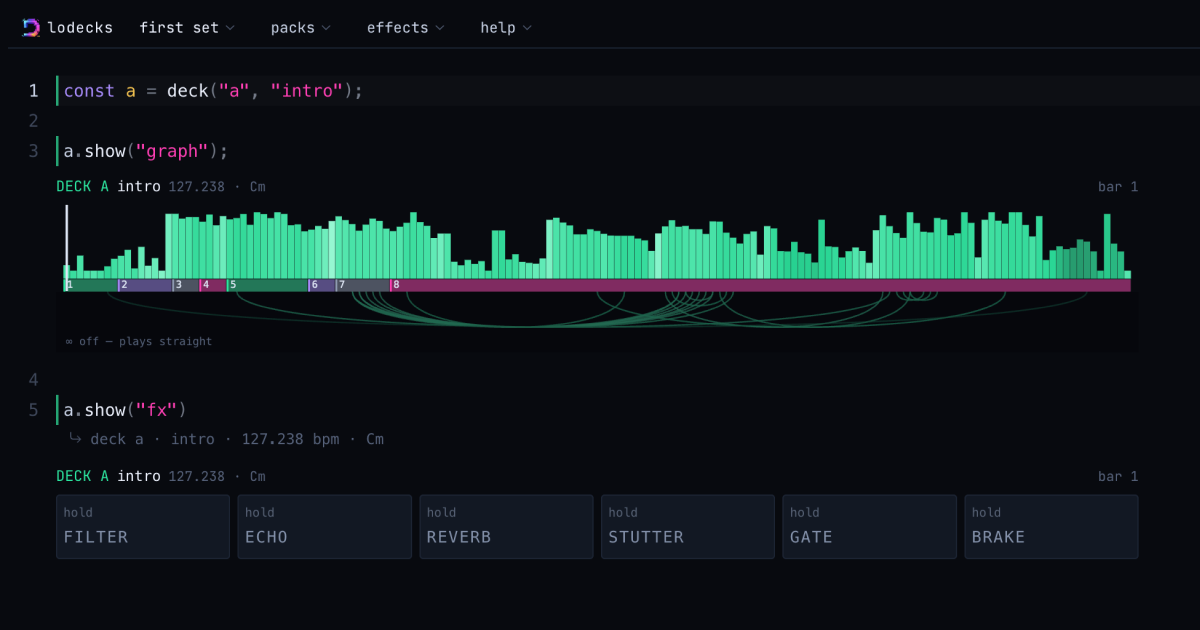
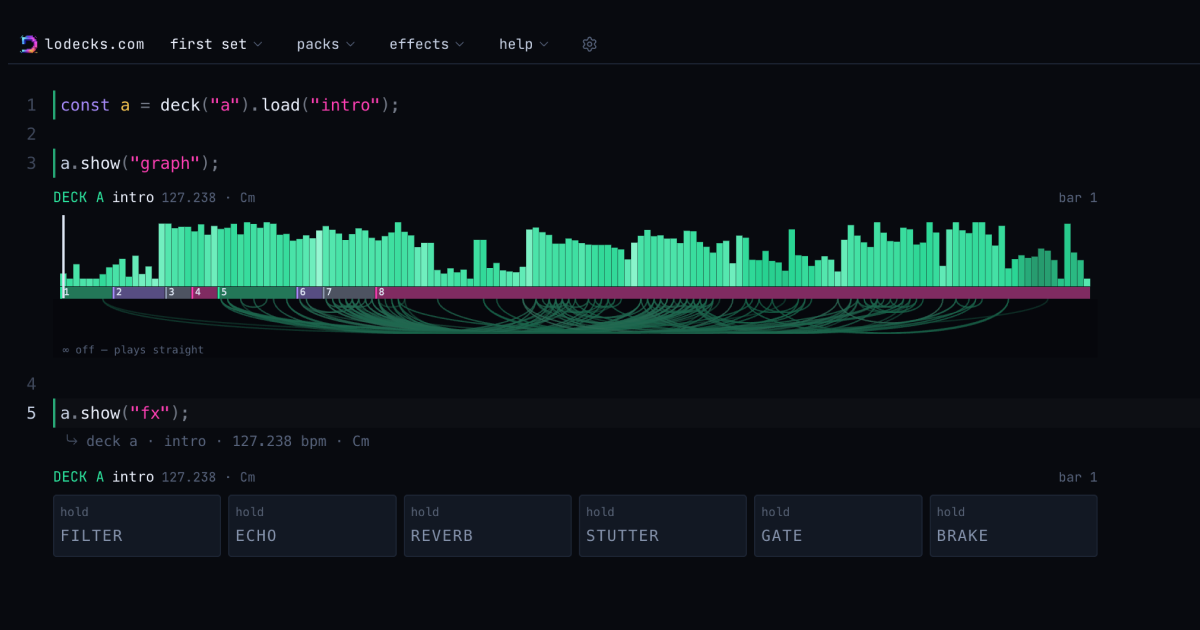
feat: lodecks.com in the menu bar, new og and readme cover

diff --git a/apps/ui/components/live/menu.tsx b/apps/ui/components/live/menu.tsx
@@ -234,7 +234,7 @@ export const LiveMenu = () => {
     <header className="border-line flex h-11 shrink-0 items-center gap-5 border-b px-4 text-[12px]">
       <div className="flex items-center gap-2">
         <img src="/logo.svg" alt="" className="h-5 w-5" />
-        <span className="text-bright tracking-[0.04em]">lodecks</span>
+        <span className="text-bright tracking-[0.04em]">lodecks.com</span>
       </div>
       <SetMenu />
       <PacksMenu className="h-6" />
